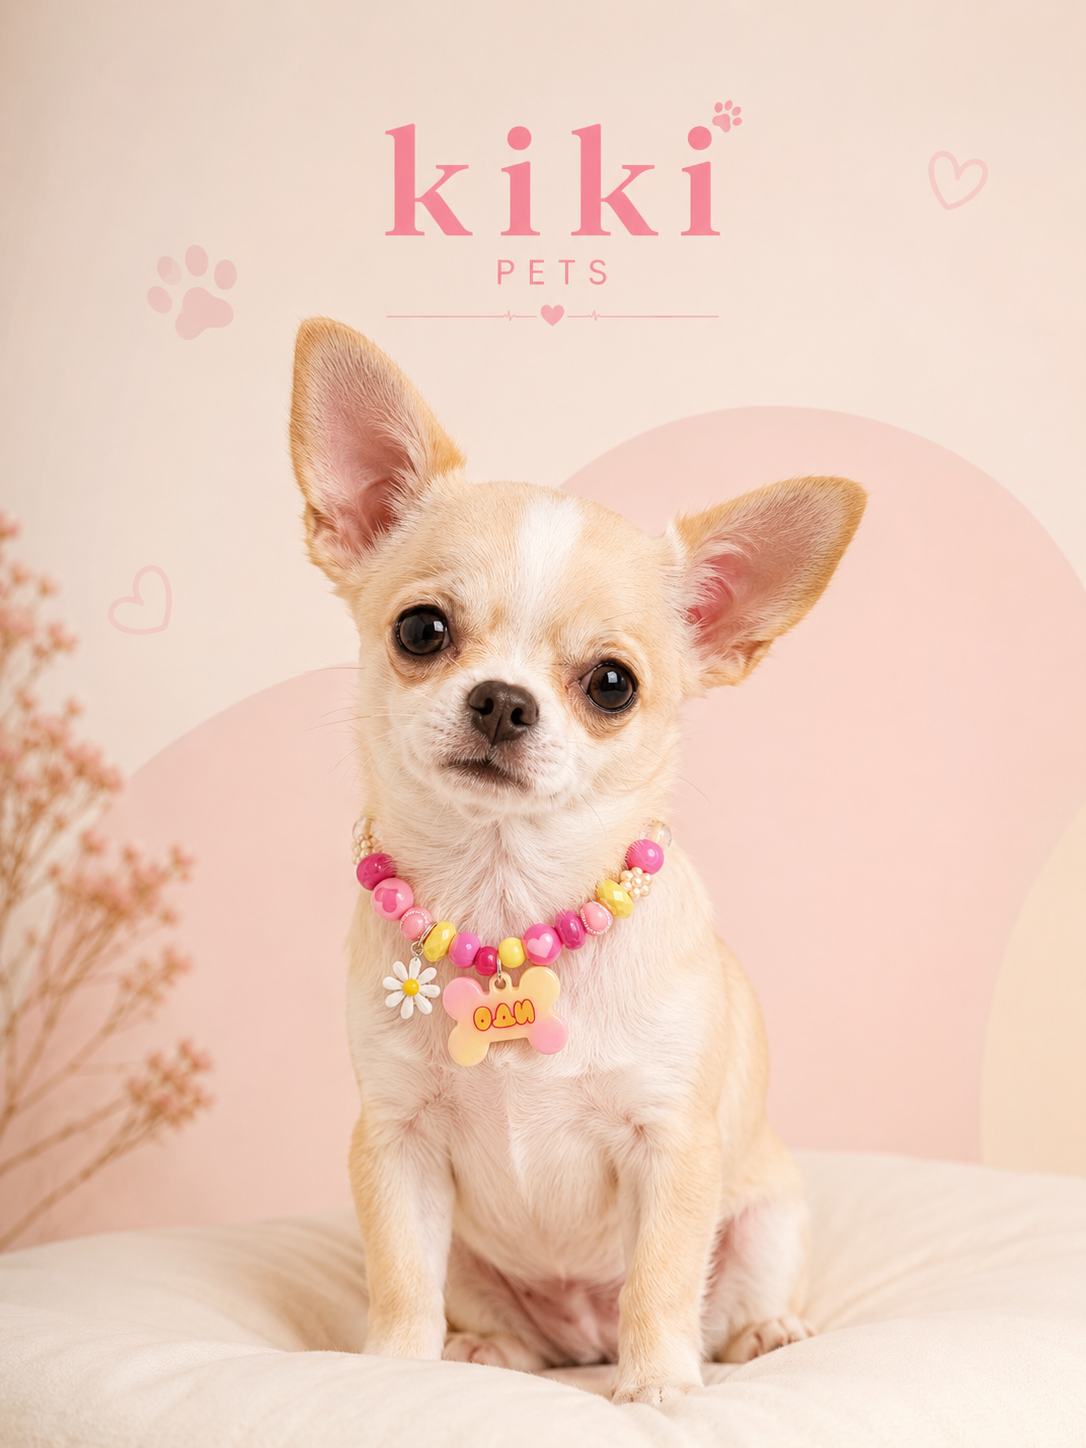
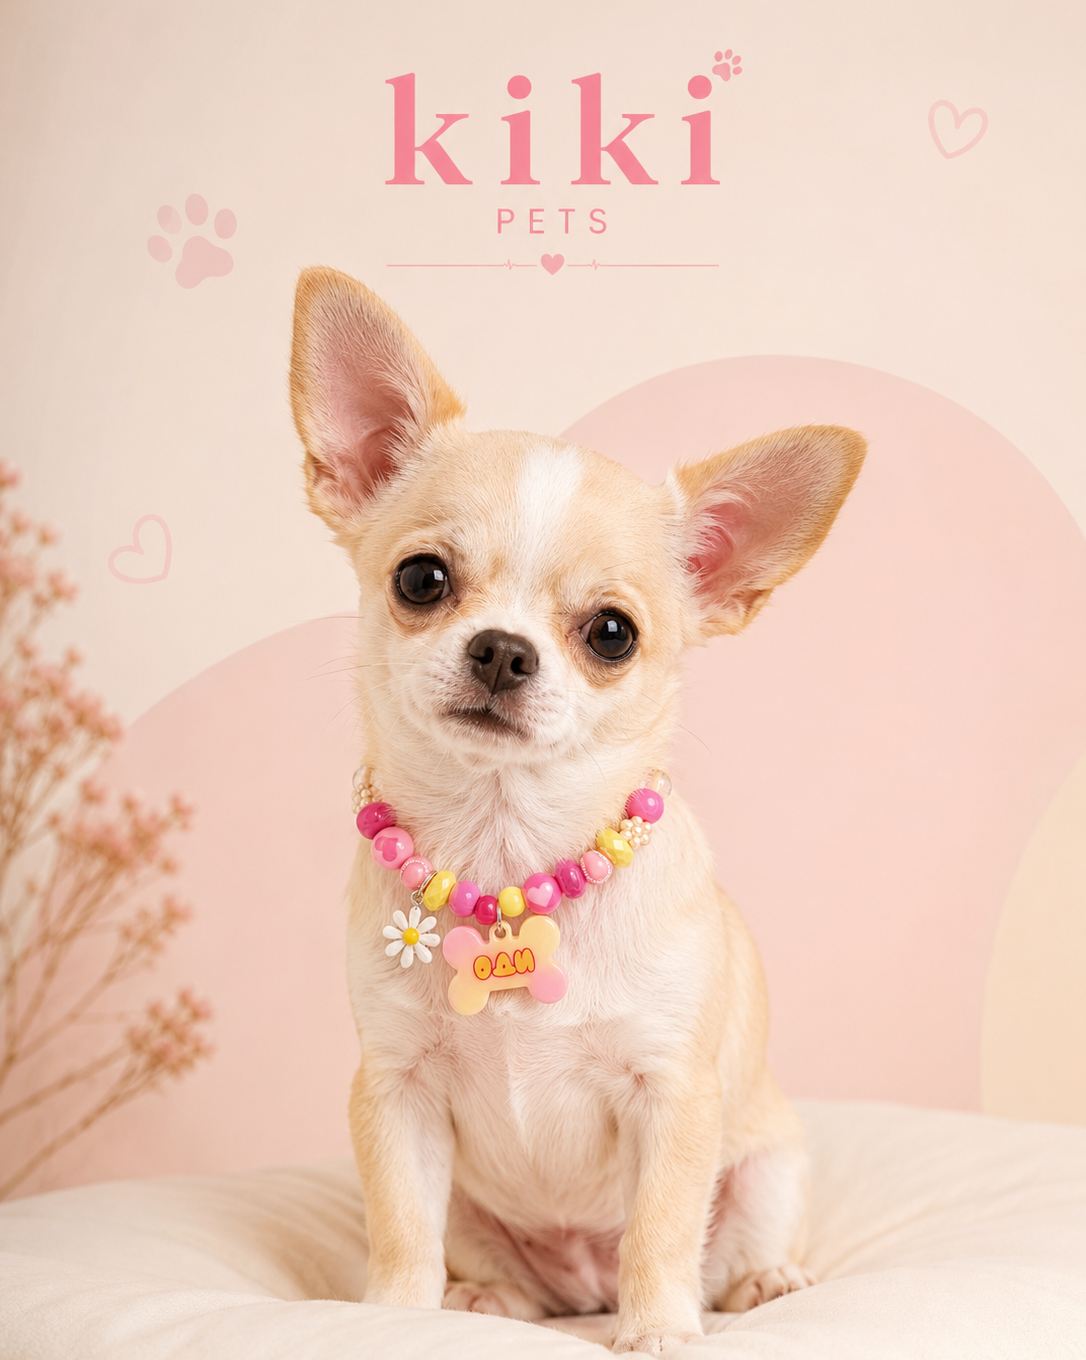
Corrección img hero

diff --git a/index.html b/index.html
@@ -90,7 +90,7 @@
 
             <div class="hero-image">
                 <img
-                    src="images/Productos/foto.png"
+                    src="images/productos/foto.png"
                     alt="Mascota usando accesorios Kiki"
                 >
             </div>